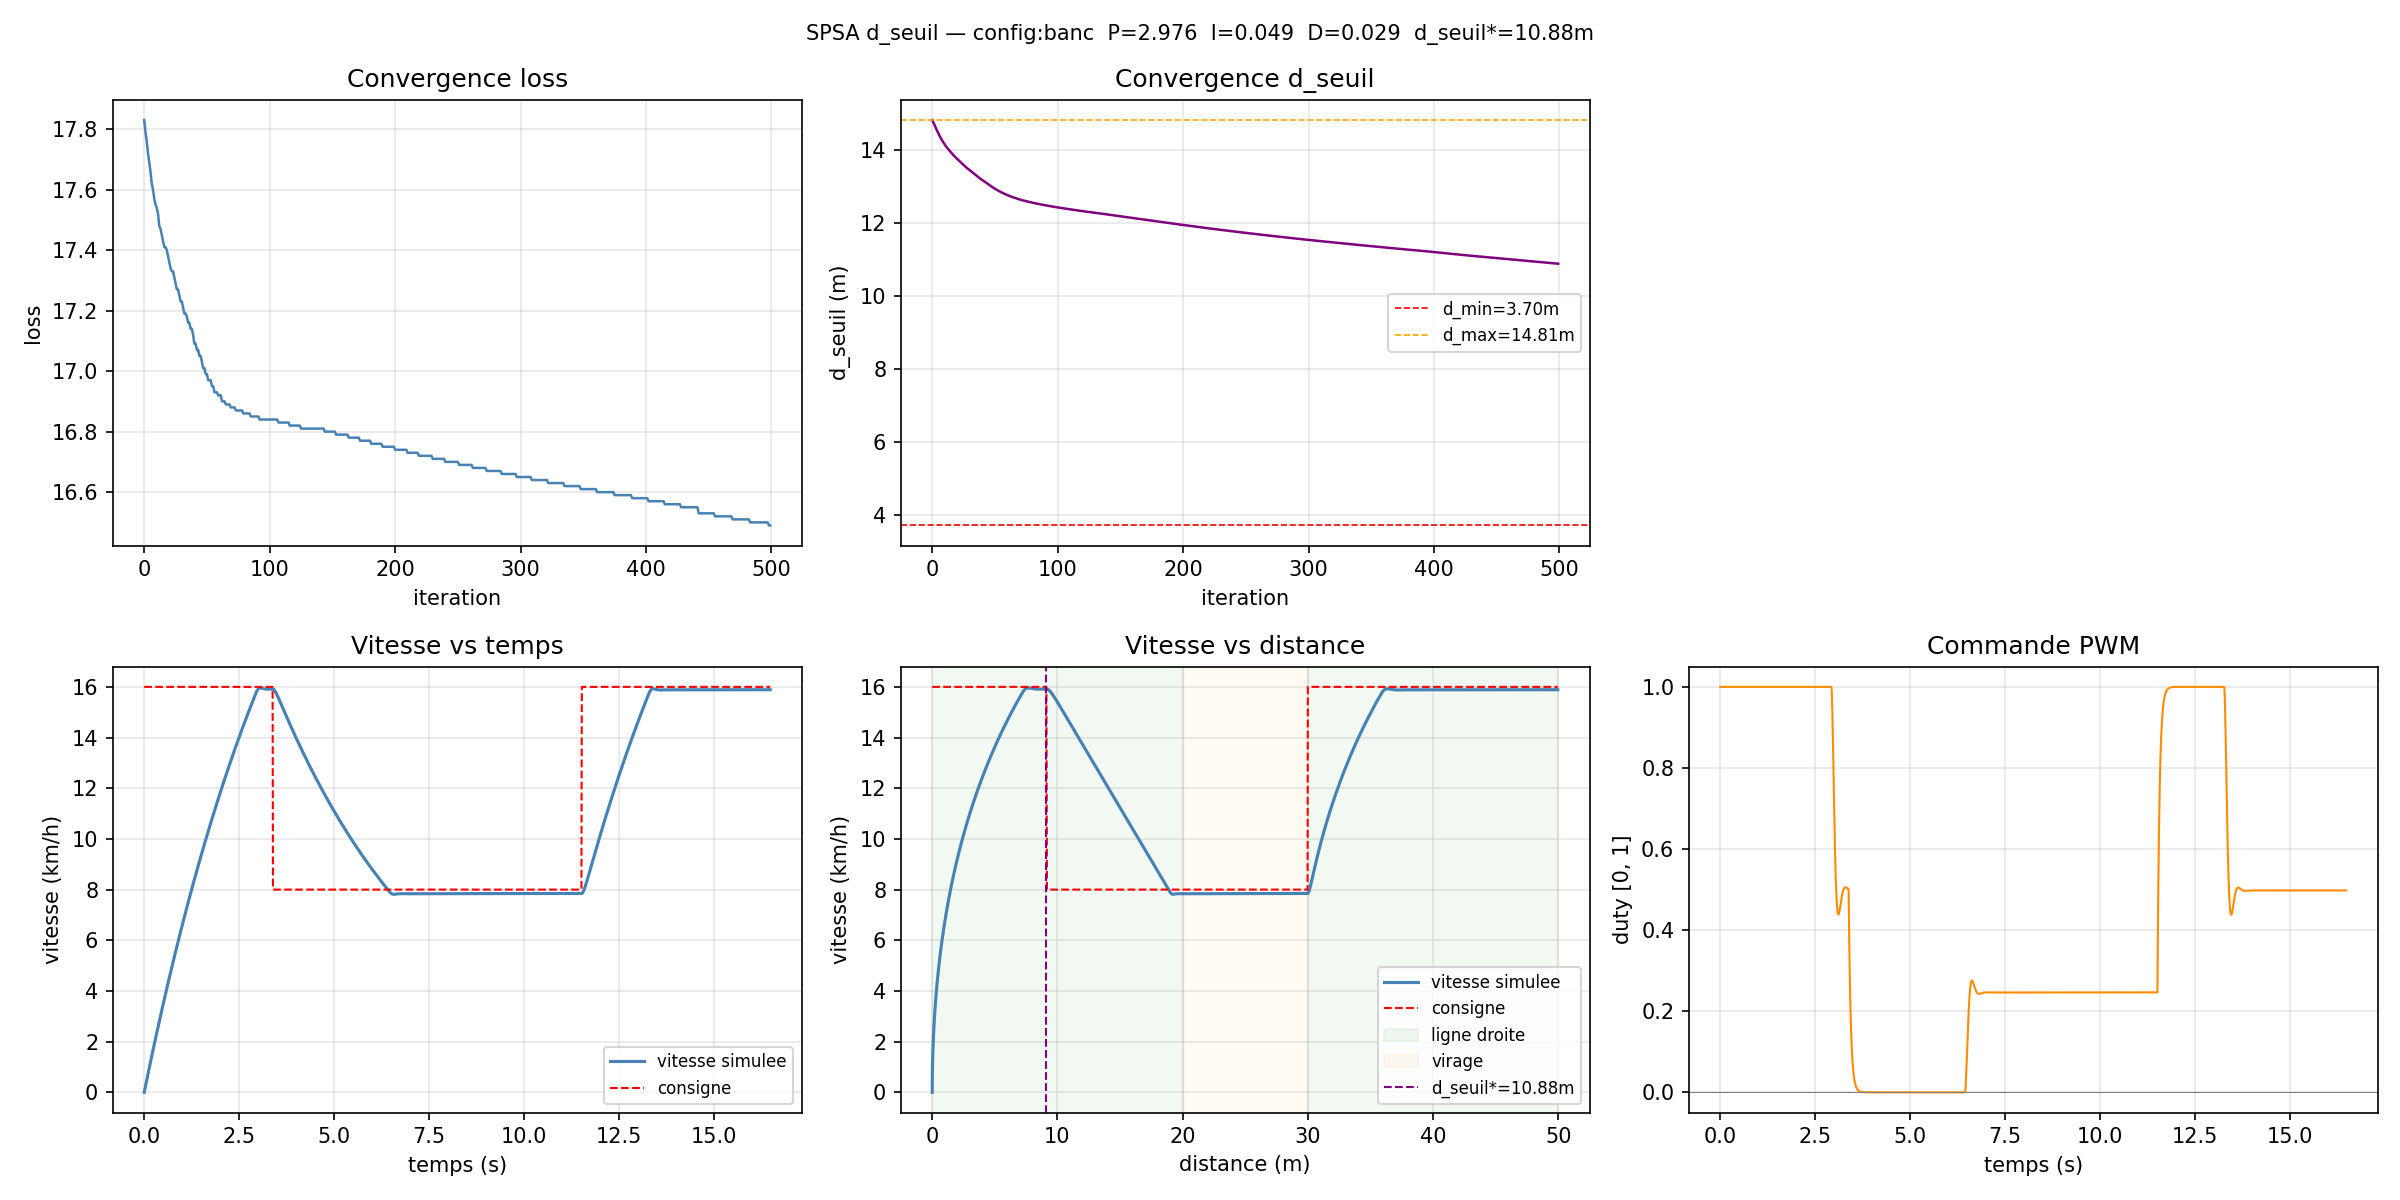
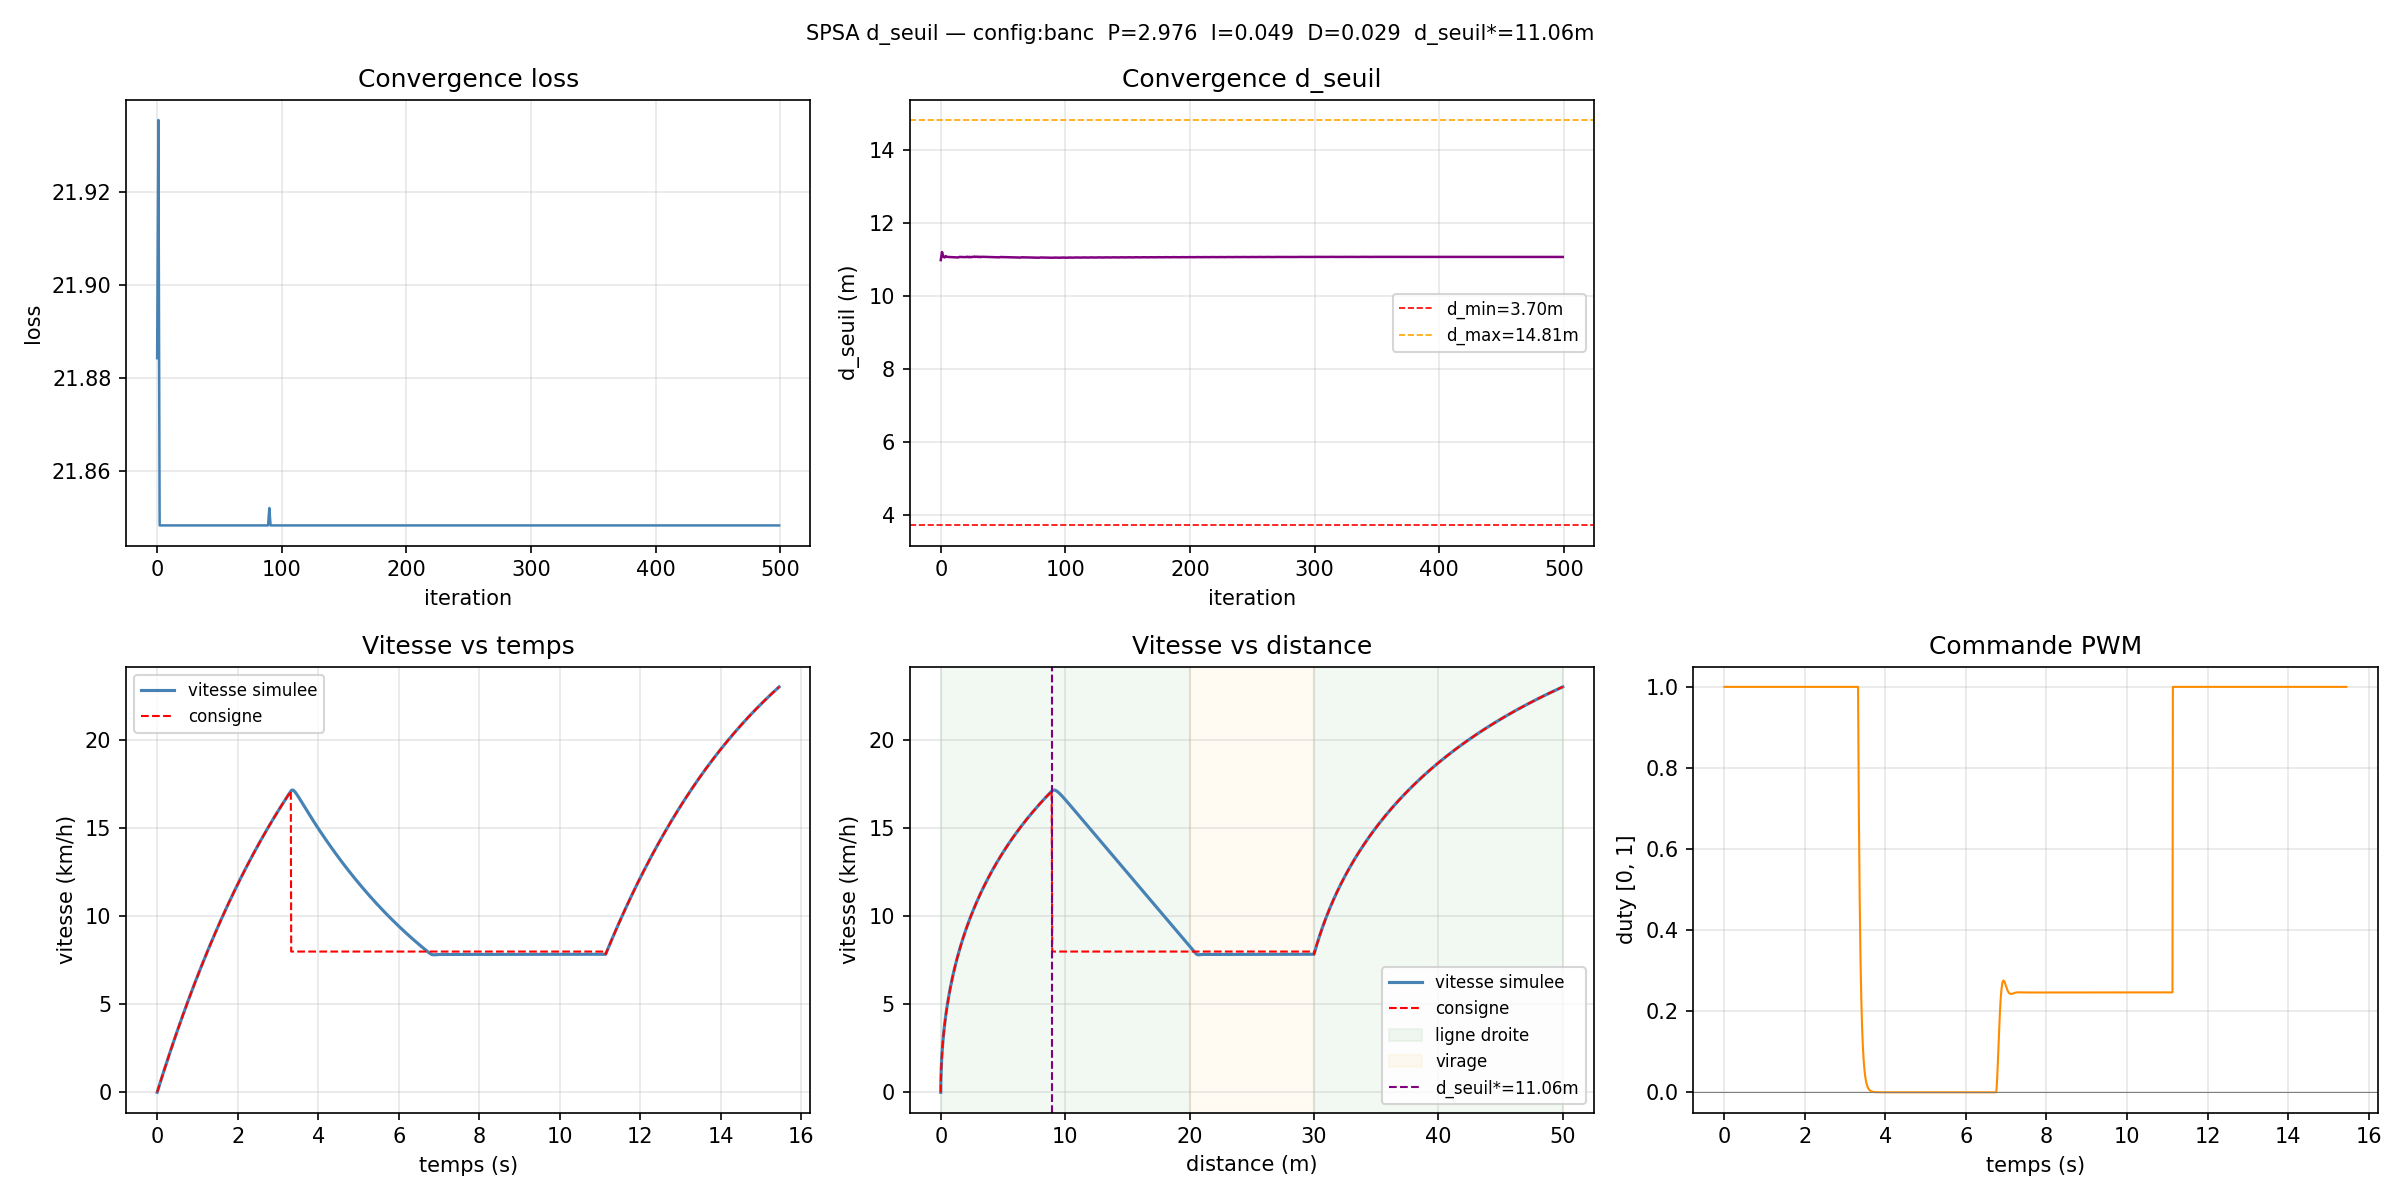
fix carte SD

diff --git a/Hermes/optimisation adaptive des parametres PID/simulation/race_max_speed.py b/Hermes/optimisation adaptive des parametres PID/simulation/race_max_speed.py
@@ -1,0 +1,265 @@
+# =============================================================
+#  spsa_dseuil.py
+#  Optimisation de d_seuil uniquement par SPSA
+#  P*, I*, D* fixés depuis spsa_optimizer.py
+#  Profil : 14 km/h → freinage → 8 km/h → 14 km/h
+# =============================================================
+
+import numpy as np
+import matplotlib.pyplot as plt
+from motor_model import MotorModel
+from spsa_optimizer import PIDController, DT
+
+# =============================================================
+#  Constantes du profil
+# =============================================================
+VIT_LIGNE   = 16.0   # km/h
+VIT_VIRAGE  =  8.0   # km/h
+DIST_LIGNE  = 20.0   # m
+DIST_VIRAGE = 10.0   # m
+DIST_SORTIE = 20.0   # m
+
+# P*, I*, D* fixés — issus de spsa_optimizer.py
+P_FIXED = 2.976
+I_FIXED = 0.049
+D_FIXED = 0.029
+
+# Distance de freinage minimale théorique
+A_FREIN     = 2.0   # m/s²  — placeholder, remplacer par valeur .ino
+D_SEUIL_MIN = ((VIT_LIGNE/3.6)**2 - (VIT_VIRAGE/3.6)**2) \
+              / (2 * A_FREIN)   # ≈ 2.55 m
+D_SEUIL_MAX = D_SEUIL_MIN * 4   
+
+# =============================================================
+#  Consigne basée sur la distance et d_seuil
+# =============================================================
+def get_consigne(dist, d_seuil):
+    dist_debut_freinage = max(0.0, DIST_LIGNE - d_seuil)
+
+    if dist < dist_debut_freinage:
+        return None             # plein gaz — pas de PID
+    elif dist < DIST_LIGNE + DIST_VIRAGE:
+        return VIT_VIRAGE       # PID cible 8 km/h
+    else:
+        return None             # plein gaz en sortie virage
+    
+
+# =============================================================
+#  Episode de simulation — d_seuil seul
+# =============================================================
+def run_episode(d_seuil, motor, dt=DT):
+    """
+    P, I, D fixes — optimise uniquement d_seuil
+    Loss = temps total + pénalité si VIT > VIT_VIRAGE à l'entrée du virage
+    """
+    motor.reset()
+    pid = PIDController(P_FIXED, I_FIXED, D_FIXED)
+    pid.reset(duty_init=1.0)
+
+    dist_max = DIST_LIGNE + DIST_VIRAGE + DIST_SORTIE
+    t        = 0.0
+    penalite = 0.0
+
+    while motor.get_cum_dist() < dist_max:
+        dist     = motor.get_cum_dist()
+        mesure   = motor.get_vitesse_kmh()
+        consigne = get_consigne(dist, d_seuil)
+
+        if consigne is None:
+            duty = 1.0          # plein gaz
+        else:
+            duty = pid.compute(consigne, mesure, dt)
+
+        motor.step(duty, dt)
+        
+        # ITAE uniquement en zone virage
+        if DIST_LIGNE <= dist < DIST_LIGNE + DIST_VIRAGE:
+            erreur    = abs(VIT_VIRAGE - mesure)
+            penalite += t * erreur * dt
+
+        t += dt
+        if t > 60.0:
+            penalite += 1000.0
+            break
+
+    # temps total + erreur virage + pénalité sécurité
+    return t + penalite
+
+# =============================================================
+#  SPSA — 1 paramètre : d_seuil
+# =============================================================
+def spsa_dseuil(motor, n_iterations=200, alpha=0.5, c=0.3):
+    """
+    Optimise d_seuil uniquement
+    P, I, D sont fixes
+    """
+    theta     = np.array([D_SEUIL_MIN * 1.2])
+    theta_min = np.array([D_SEUIL_MIN])
+    theta_max = np.array([D_SEUIL_MAX])
+
+    historique_loss   = []
+    historique_dseuil = []
+
+    print("=" * 50)
+    print(f"  SPSA d_seuil — config:{motor.config}")
+    print(f"  P={P_FIXED}  I={I_FIXED}  D={D_FIXED}  (fixes)")
+    print(f"  d_seuil_min : {D_SEUIL_MIN:.2f} m")
+    print(f"  d_seuil_max : {D_SEUIL_MAX:.2f} m")
+    print(f"  iterations  : {n_iterations}")
+    print("=" * 50)
+    print(f"  {'iter':>5}  {'d_seuil':>10}  {'loss':>10}")
+    print("-" * 30)
+
+    for k in range(n_iterations):
+
+        ak = alpha / (k + 1) ** 0.602
+        ck = c     / (k + 1) ** 0.101
+
+        delta = np.random.choice([-1.0, 1.0], size=1)
+
+        theta_plus  = np.clip(theta + ck * delta, theta_min, theta_max)
+        theta_minus = np.clip(theta - ck * delta, theta_min, theta_max)
+
+        loss_plus  = run_episode(theta_plus[0],  motor)
+        loss_minus = run_episode(theta_minus[0], motor)
+
+        gradient = (loss_plus - loss_minus) / (2.0 * ck * delta)
+        theta    = np.clip(theta - ak * gradient, theta_min, theta_max)
+
+        loss_courante = run_episode(theta[0], motor)
+        historique_loss.append(loss_courante)
+        historique_dseuil.append(theta[0])
+
+        if k % 10 == 0:
+            print(f"  {k:>5}  {theta[0]:>10.3f}  {loss_courante:>10.4f}")
+
+    d_seuil_star = theta[0]
+    print("=" * 50)
+    print(f"  d_seuil* = {d_seuil_star:.4f} m")
+    print(f"  freinage déclenché à dist = {DIST_LIGNE - d_seuil_star:.2f} m")
+    print(f"  loss finale = {historique_loss[-1]:.4f}")
+    print("=" * 50)
+
+    return d_seuil_star, historique_loss, historique_dseuil
+
+# =============================================================
+#  Visualisation
+# =============================================================
+def plot_resultats(d_seuil_star, motor, historique_loss, historique_dseuil):
+
+    fig, axes = plt.subplots(2, 3, figsize=(16, 8))
+
+    # --- Graphe 1 : convergence loss ---
+    axes[0][0].plot(historique_loss, color='steelblue', linewidth=1.2)
+    axes[0][0].set_xlabel("iteration")
+    axes[0][0].set_ylabel("loss")
+    axes[0][0].set_title("Convergence loss")
+    axes[0][0].grid(True, alpha=0.3)
+
+    # --- Graphe 2 : convergence d_seuil ---
+    axes[0][1].plot(historique_dseuil, color='purple', linewidth=1.2)
+    axes[0][1].axhline(y=D_SEUIL_MIN, color='red',   linestyle='--',
+                       linewidth=0.8, label=f'd_min={D_SEUIL_MIN:.2f}m')
+    axes[0][1].axhline(y=D_SEUIL_MAX, color='orange', linestyle='--',
+                       linewidth=0.8, label=f'd_max={D_SEUIL_MAX:.2f}m')
+    axes[0][1].set_xlabel("iteration")
+    axes[0][1].set_ylabel("d_seuil (m)")
+    axes[0][1].set_title("Convergence d_seuil")
+    axes[0][1].legend(fontsize=8)
+    axes[0][1].grid(True, alpha=0.3)
+
+    # --- Simulation finale ---
+    motor.reset()
+    pid = PIDController(P_FIXED, I_FIXED, D_FIXED)
+    pid.reset(duty_init=1.0)
+    dist_max = DIST_LIGNE + DIST_VIRAGE + DIST_SORTIE
+
+    temps, vitesses, consignes, duties, distances = [], [], [], [], []
+    t = 0.0
+    while motor.get_cum_dist() < dist_max:
+        dist     = motor.get_cum_dist()
+        mesure   = motor.get_vitesse_kmh()
+        consigne = get_consigne(dist, d_seuil_star)
+
+        if consigne is None:
+            duty = 1.0
+        else:
+            duty = pid.compute(consigne, mesure, DT)
+
+        motor.step(duty, DT)
+        temps.append(t)
+        vitesses.append(mesure)
+        consignes.append(consigne if consigne is not None else mesure)
+        duties.append(duty)
+        distances.append(dist)
+        t += DT
+        if t > 60.0:
+            break
+
+    # --- Graphe 3 vide (placeholder) ---
+    axes[0][2].axis('off')
+
+    # --- Graphe 4 : vitesse vs temps ---
+    axes[1][0].plot(temps, vitesses,  color='steelblue', linewidth=1.5,
+                    label='vitesse simulee')
+    axes[1][0].plot(temps, consignes, color='red',       linewidth=1.0,
+                    linestyle='--', label='consigne')
+    axes[1][0].set_xlabel("temps (s)")
+    axes[1][0].set_ylabel("vitesse (km/h)")
+    axes[1][0].set_title("Vitesse vs temps")
+    axes[1][0].legend(fontsize=8)
+    axes[1][0].grid(True, alpha=0.3)
+
+    # --- Graphe 5 : vitesse vs distance ---
+    axes[1][1].plot(distances, vitesses,  color='steelblue', linewidth=1.5,
+                    label='vitesse simulee')
+    axes[1][1].plot(distances, consignes, color='red',       linewidth=1.0,
+                    linestyle='--', label='consigne')
+    axes[1][1].axvspan(0,          DIST_LIGNE,              alpha=0.05,
+                       color='green',  label='ligne droite')
+    axes[1][1].axvspan(DIST_LIGNE, DIST_LIGNE + DIST_VIRAGE, alpha=0.05,
+                       color='orange', label='virage')
+    axes[1][1].axvspan(DIST_LIGNE + DIST_VIRAGE, dist_max,  alpha=0.05,
+                       color='green')
+    axes[1][1].axvline(x=DIST_LIGNE - d_seuil_star, color='purple',
+                       linestyle='--', linewidth=1.0,
+                       label=f'd_seuil*={d_seuil_star:.2f}m')
+    axes[1][1].set_xlabel("distance (m)")
+    axes[1][1].set_ylabel("vitesse (km/h)")
+    axes[1][1].set_title("Vitesse vs distance")
+    axes[1][1].legend(fontsize=8)
+    axes[1][1].grid(True, alpha=0.3)
+
+    # --- Graphe 6 : PWM ---
+    axes[1][2].plot(temps, duties, color='darkorange', linewidth=1.0)
+    axes[1][2].axhline(y=0, color='gray', linewidth=0.5)
+    axes[1][2].set_xlabel("temps (s)")
+    axes[1][2].set_ylabel("duty [0, 1]")
+    axes[1][2].set_title("Commande PWM")
+    axes[1][2].grid(True, alpha=0.3)
+
+    plt.suptitle(
+        f"SPSA d_seuil — config:{motor.config}  "
+        f"P={P_FIXED}  I={I_FIXED}  D={D_FIXED}  "
+        f"d_seuil*={d_seuil_star:.2f}m",
+        fontsize=10)
+    plt.tight_layout()
+    plt.savefig(f"spsa_dseuil_{motor.config}.png", dpi=150)
+    plt.show()
+
+# =============================================================
+#  Main
+# =============================================================
+if __name__ == "__main__":
+
+    config = "banc"   # ← changer ici pour "piste"
+    motor  = MotorModel(config=config)
+
+    d_seuil_star, historique_loss, historique_dseuil = spsa_dseuil(
+        motor,
+        n_iterations = 500,
+        alpha        = 0.5,
+        c            = 0.3
+    )
+
+    plot_resultats(d_seuil_star, motor, historique_loss, historique_dseuil)